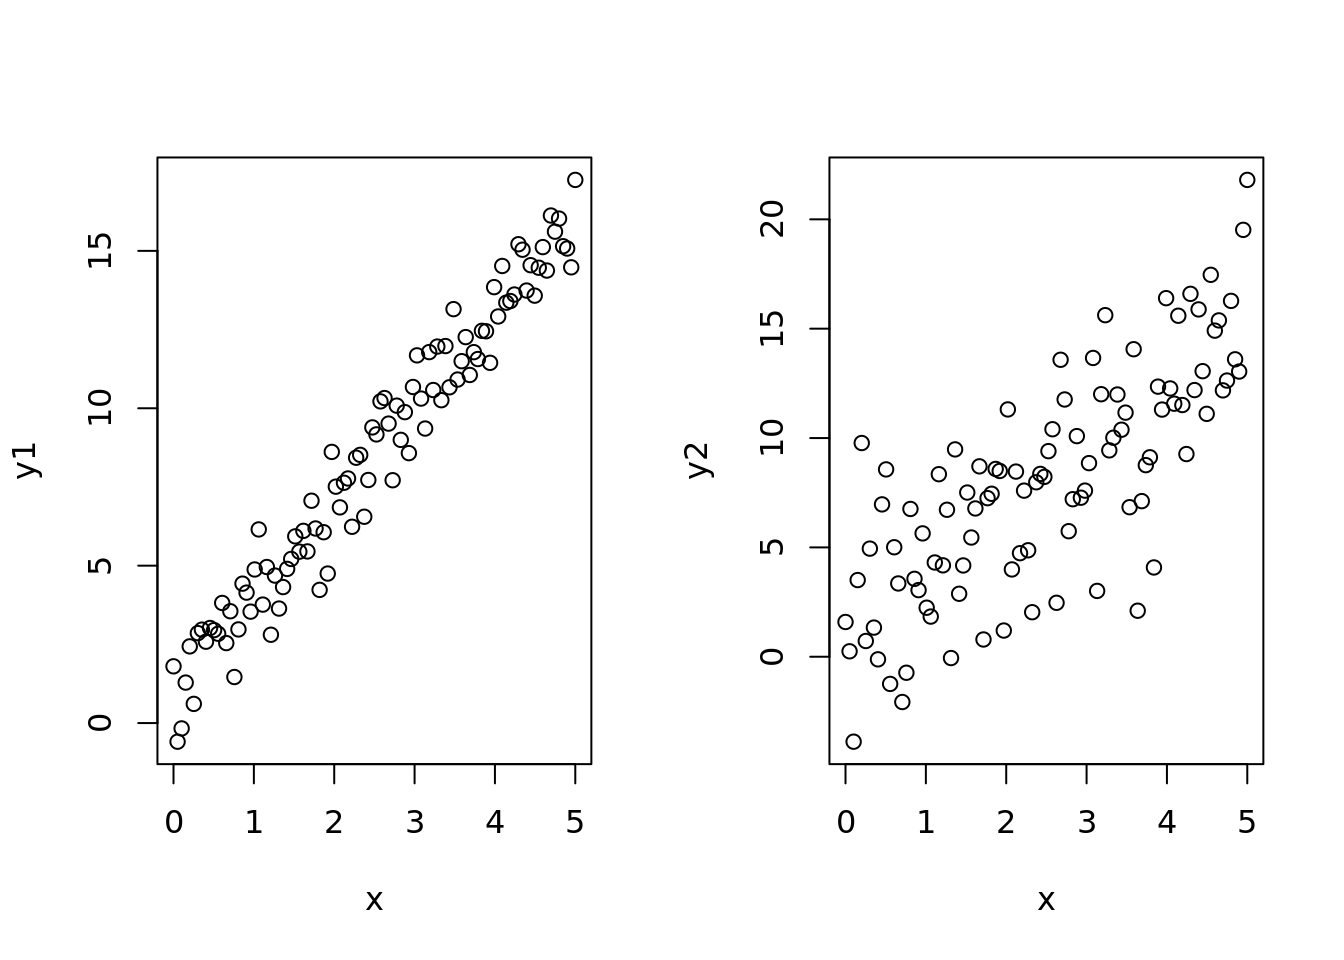
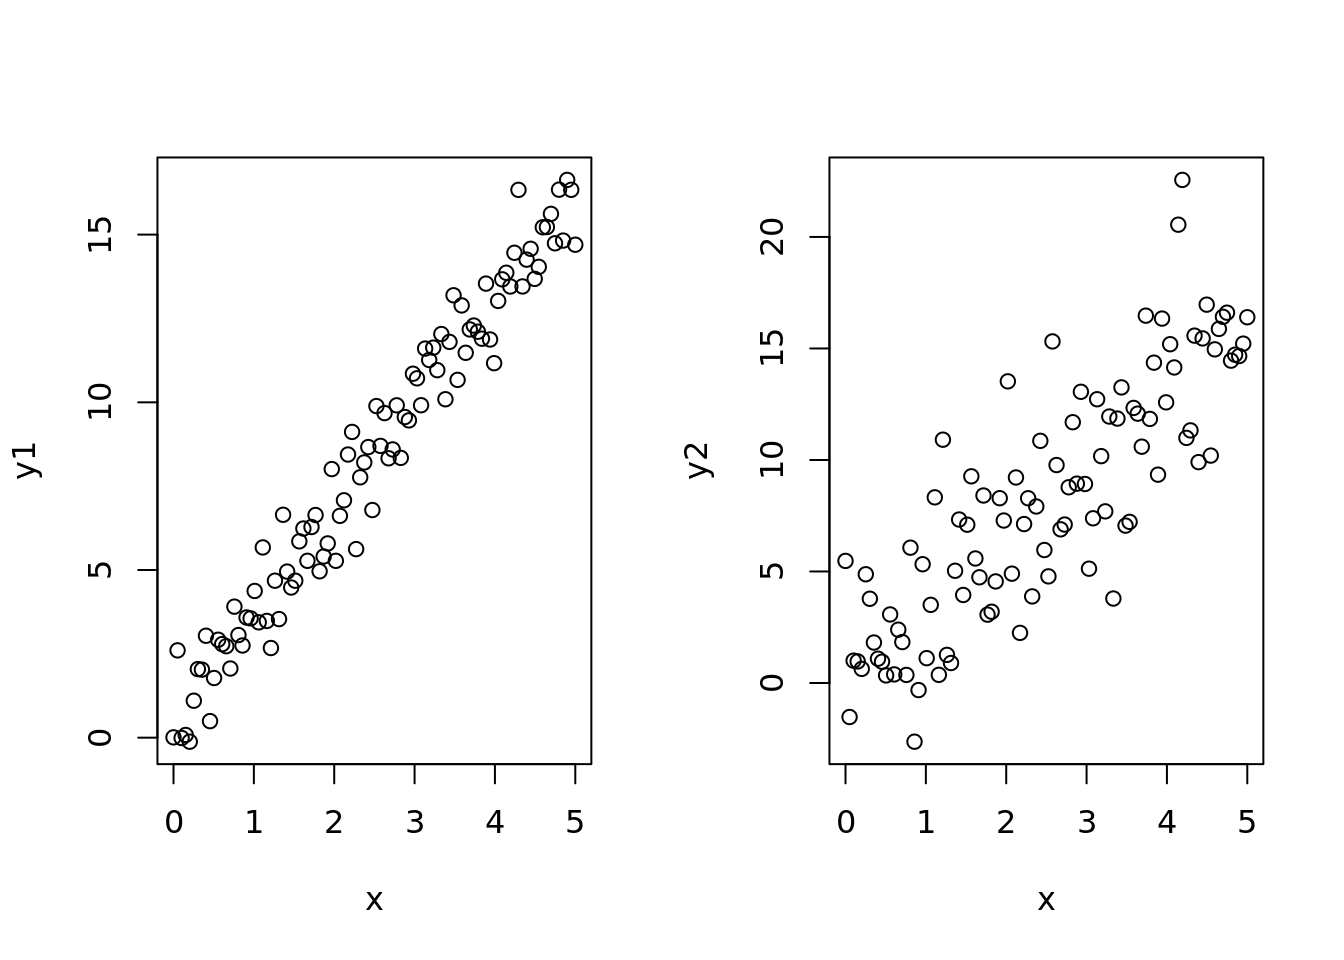
more changes

diff --git a/index.html b/index.html
@@ -238,19 +238,19 @@ Call:
 lm(formula = y1 ~ x)
 
 Residuals:
-     Min       1Q   Median       3Q      Max 
--2.20954 -0.54068 -0.08579  0.72253  2.00479 
+    Min      1Q  Median      3Q     Max 
+-2.0439 -0.6839  0.0187  0.6391  2.3167 
 
 Coefficients:
             Estimate Std. Error t value Pr(&gt;|t|)    
-(Intercept)  0.93449    0.18502   5.051 2.04e-06 ***
-x            3.02844    0.06393  47.371  &lt; 2e-16 ***
+(Intercept)   0.5200     0.1812    2.87  0.00502 ** 
+x             3.1442     0.0626   50.23  &lt; 2e-16 ***
 ---
 Signif. codes:  0 '***' 0.001 '**' 0.01 '*' 0.05 '.' 0.1 ' ' 1
 
-Residual standard error: 0.932 on 98 degrees of freedom
-Multiple R-squared:  0.9582,    Adjusted R-squared:  0.9577 
-F-statistic:  2244 on 1 and 98 DF,  p-value: &lt; 2.2e-16</code></pre>
+Residual standard error: 0.9127 on 98 degrees of freedom
+Multiple R-squared:  0.9626,    Adjusted R-squared:  0.9622 
+F-statistic:  2523 on 1 and 98 DF,  p-value: &lt; 2.2e-16</code></pre>
 </div>
 </div>
 <div class="cell">
@@ -262,18 +262,18 @@ lm(formula = y2 ~ x)
 
 Residuals:
     Min      1Q  Median      3Q     Max 
--8.9801 -1.9681  0.0388  2.1394  7.9963 
+-7.0917 -2.0186 -0.1407  1.9004  8.9746 
 
 Coefficients:
             Estimate Std. Error t value Pr(&gt;|t|)    
-(Intercept)   1.2278     0.6496    1.89   0.0617 .  
-x             2.7106     0.2245   12.07   &lt;2e-16 ***
+(Intercept)   0.3853     0.5936   0.649    0.518    
+x             3.1483     0.2051  15.349   &lt;2e-16 ***
 ---
 Signif. codes:  0 '***' 0.001 '**' 0.01 '*' 0.05 '.' 0.1 ' ' 1
 
-Residual standard error: 3.273 on 98 degrees of freedom
-Multiple R-squared:  0.5981,    Adjusted R-squared:  0.594 
-F-statistic: 145.8 on 1 and 98 DF,  p-value: &lt; 2.2e-16</code></pre>
+Residual standard error: 2.99 on 98 degrees of freedom
+Multiple R-squared:  0.7062,    Adjusted R-squared:  0.7032 
+F-statistic: 235.6 on 1 and 98 DF,  p-value: &lt; 2.2e-16</code></pre>
 </div>
 </div>
 <p>now to predict models</p>
@@ -284,7 +284,7 @@ F-statistic: 145.8 on 1 and 98 DF,  p-value: &lt; 2.2e-16</code></pre>
 <p>#<code>{r} new_x &lt;- data.frame(x = c(21)) new_y &lt;- predict(model, new_x) new_y</code></p>
 <p>#<code>{r} plt() abline(v=21, col="green") lines(x, fitted(lm(y~x)), col="red") points(new_x, new_y, col="purple")</code></p>
 <p>We can make predictions not just for a single observation, but for a whole collection of observations.</p>
-<p>#q()<code>{r} new_x &lt;- data.frame(x = c(1:21)) new_y &lt;- predict(model, new_x)</code></p>
+<p>#<code>{r} new_x &lt;- data.frame(x = c(1:21)) new_y &lt;- predict(model, new_x)</code></p>
 <p>This is what the plot looks like:</p>
 <p>#<code>{r} plt() for(a in new_x){abline(v=a, col="green")} lines(x, fitted(lm(y~x)), col="red") points(a, new_y, col="purple")</code></p>
 </section>
